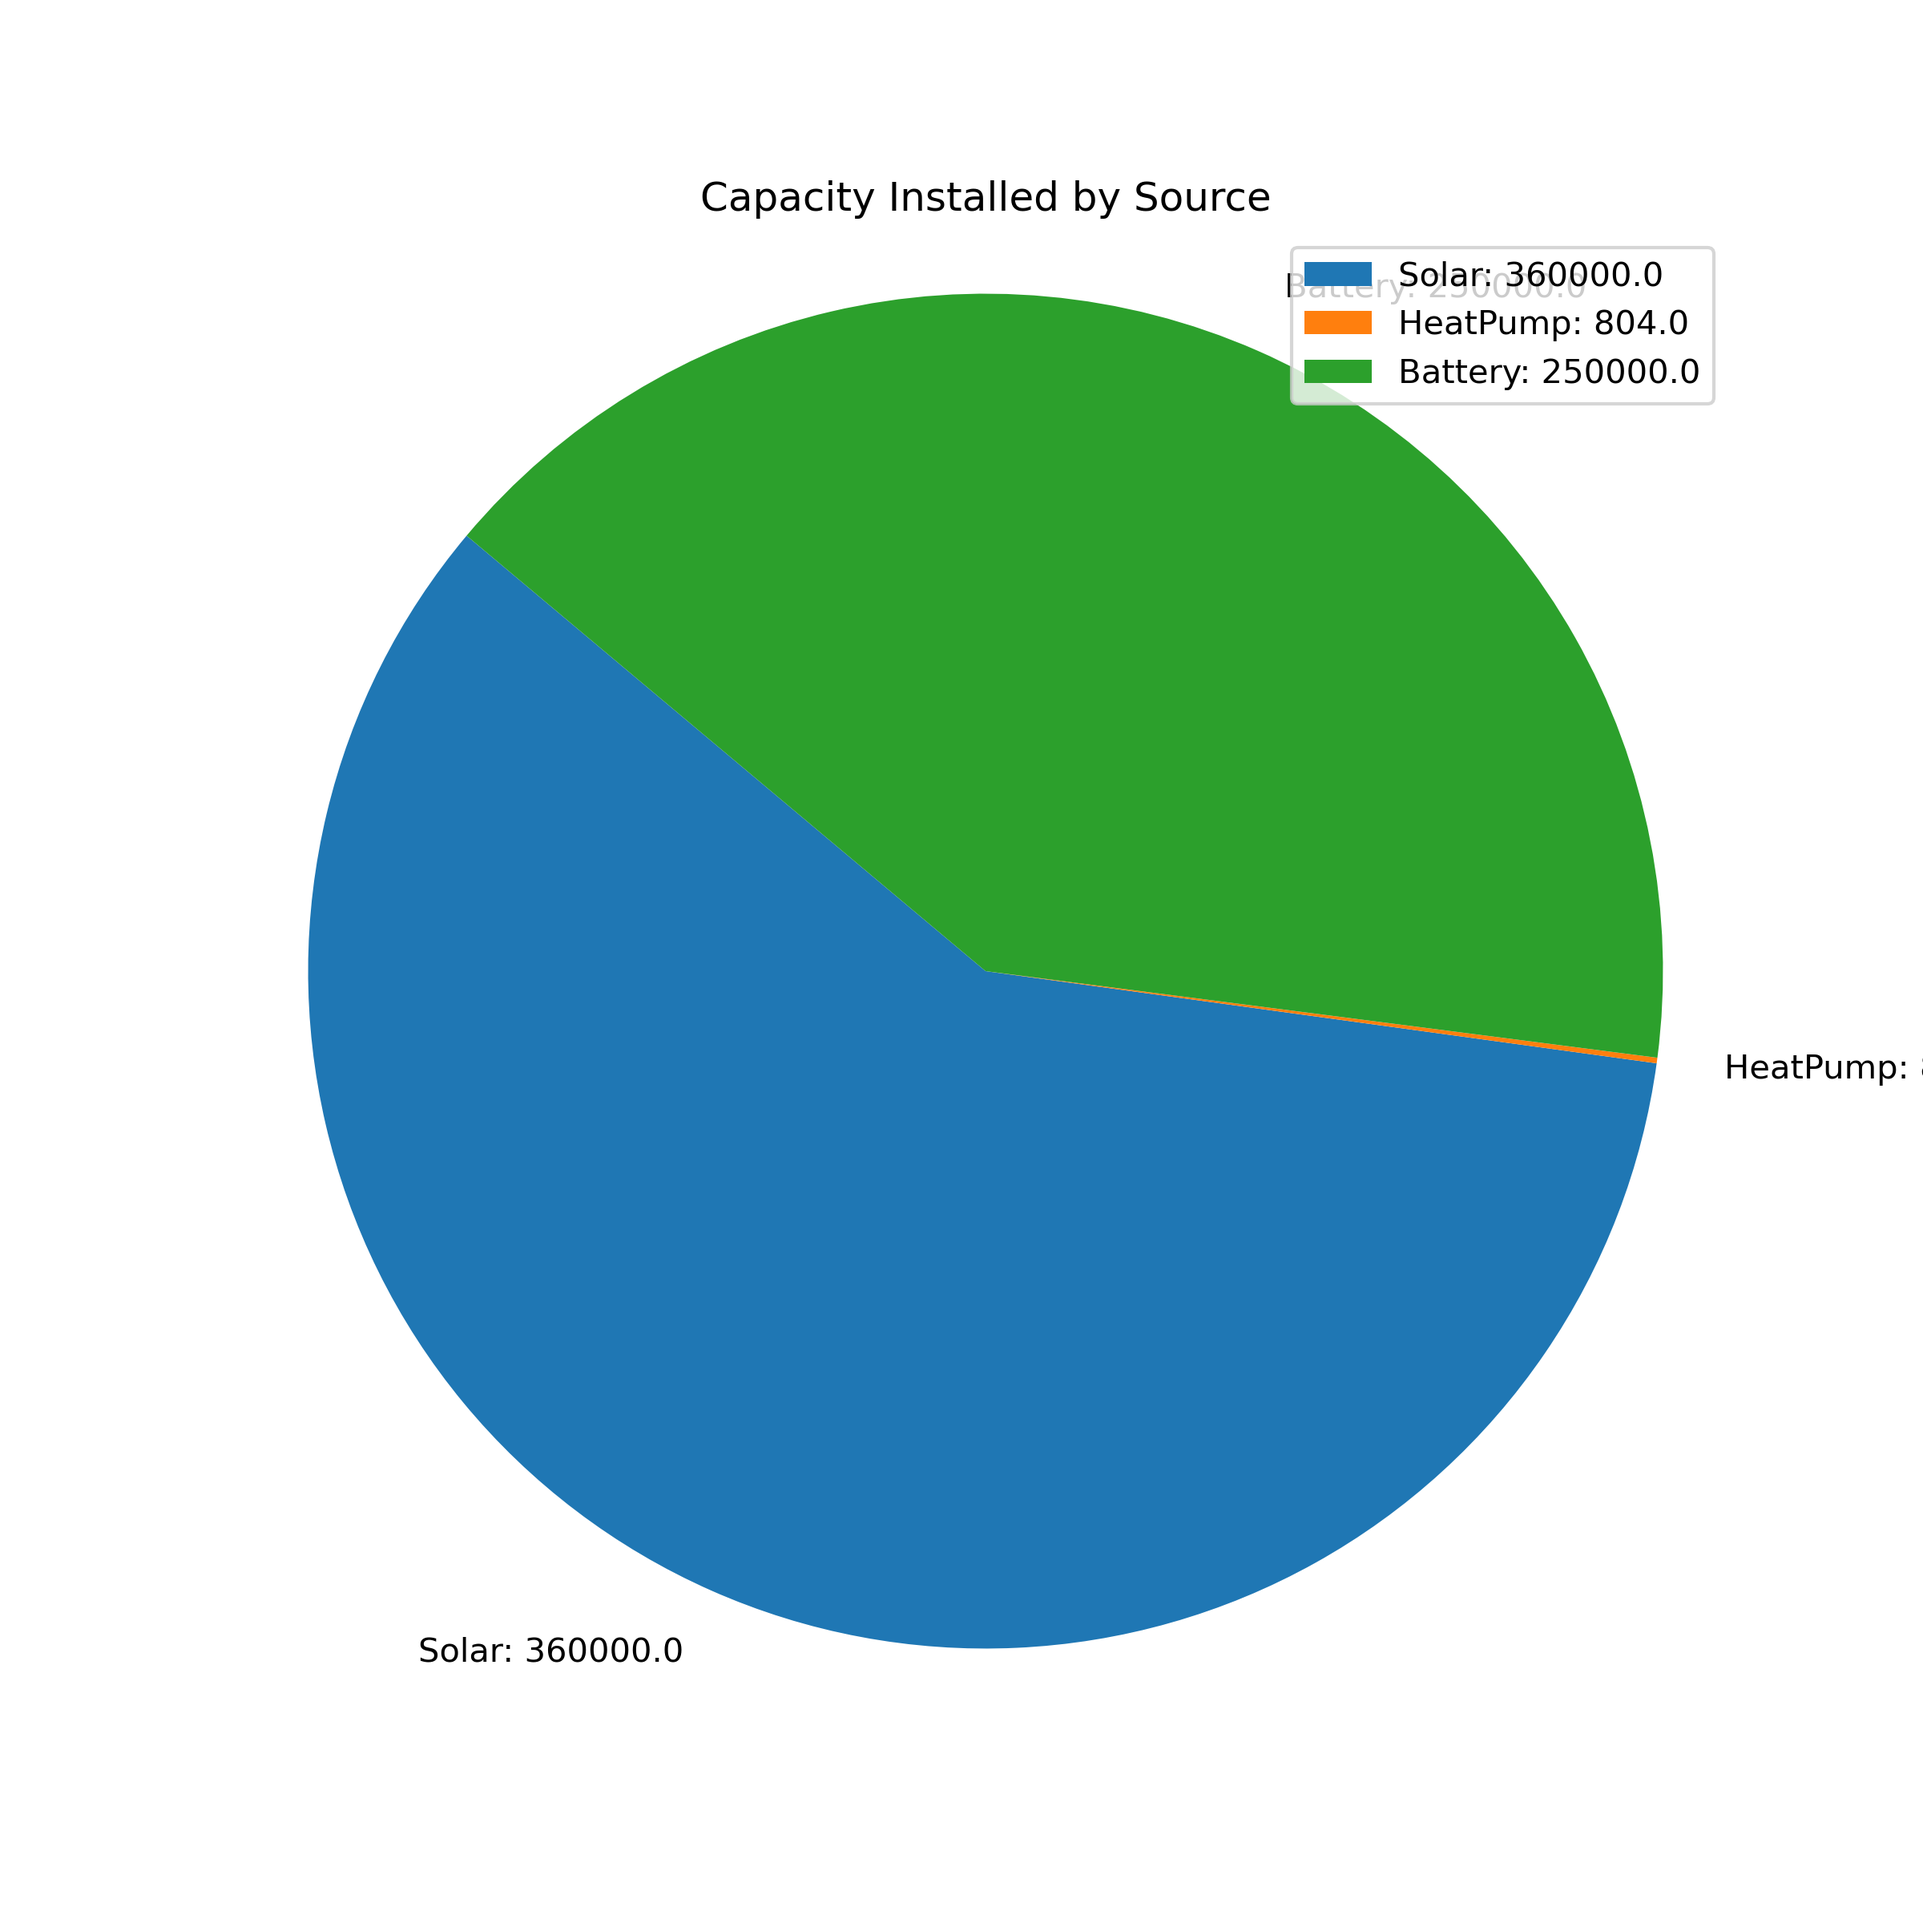
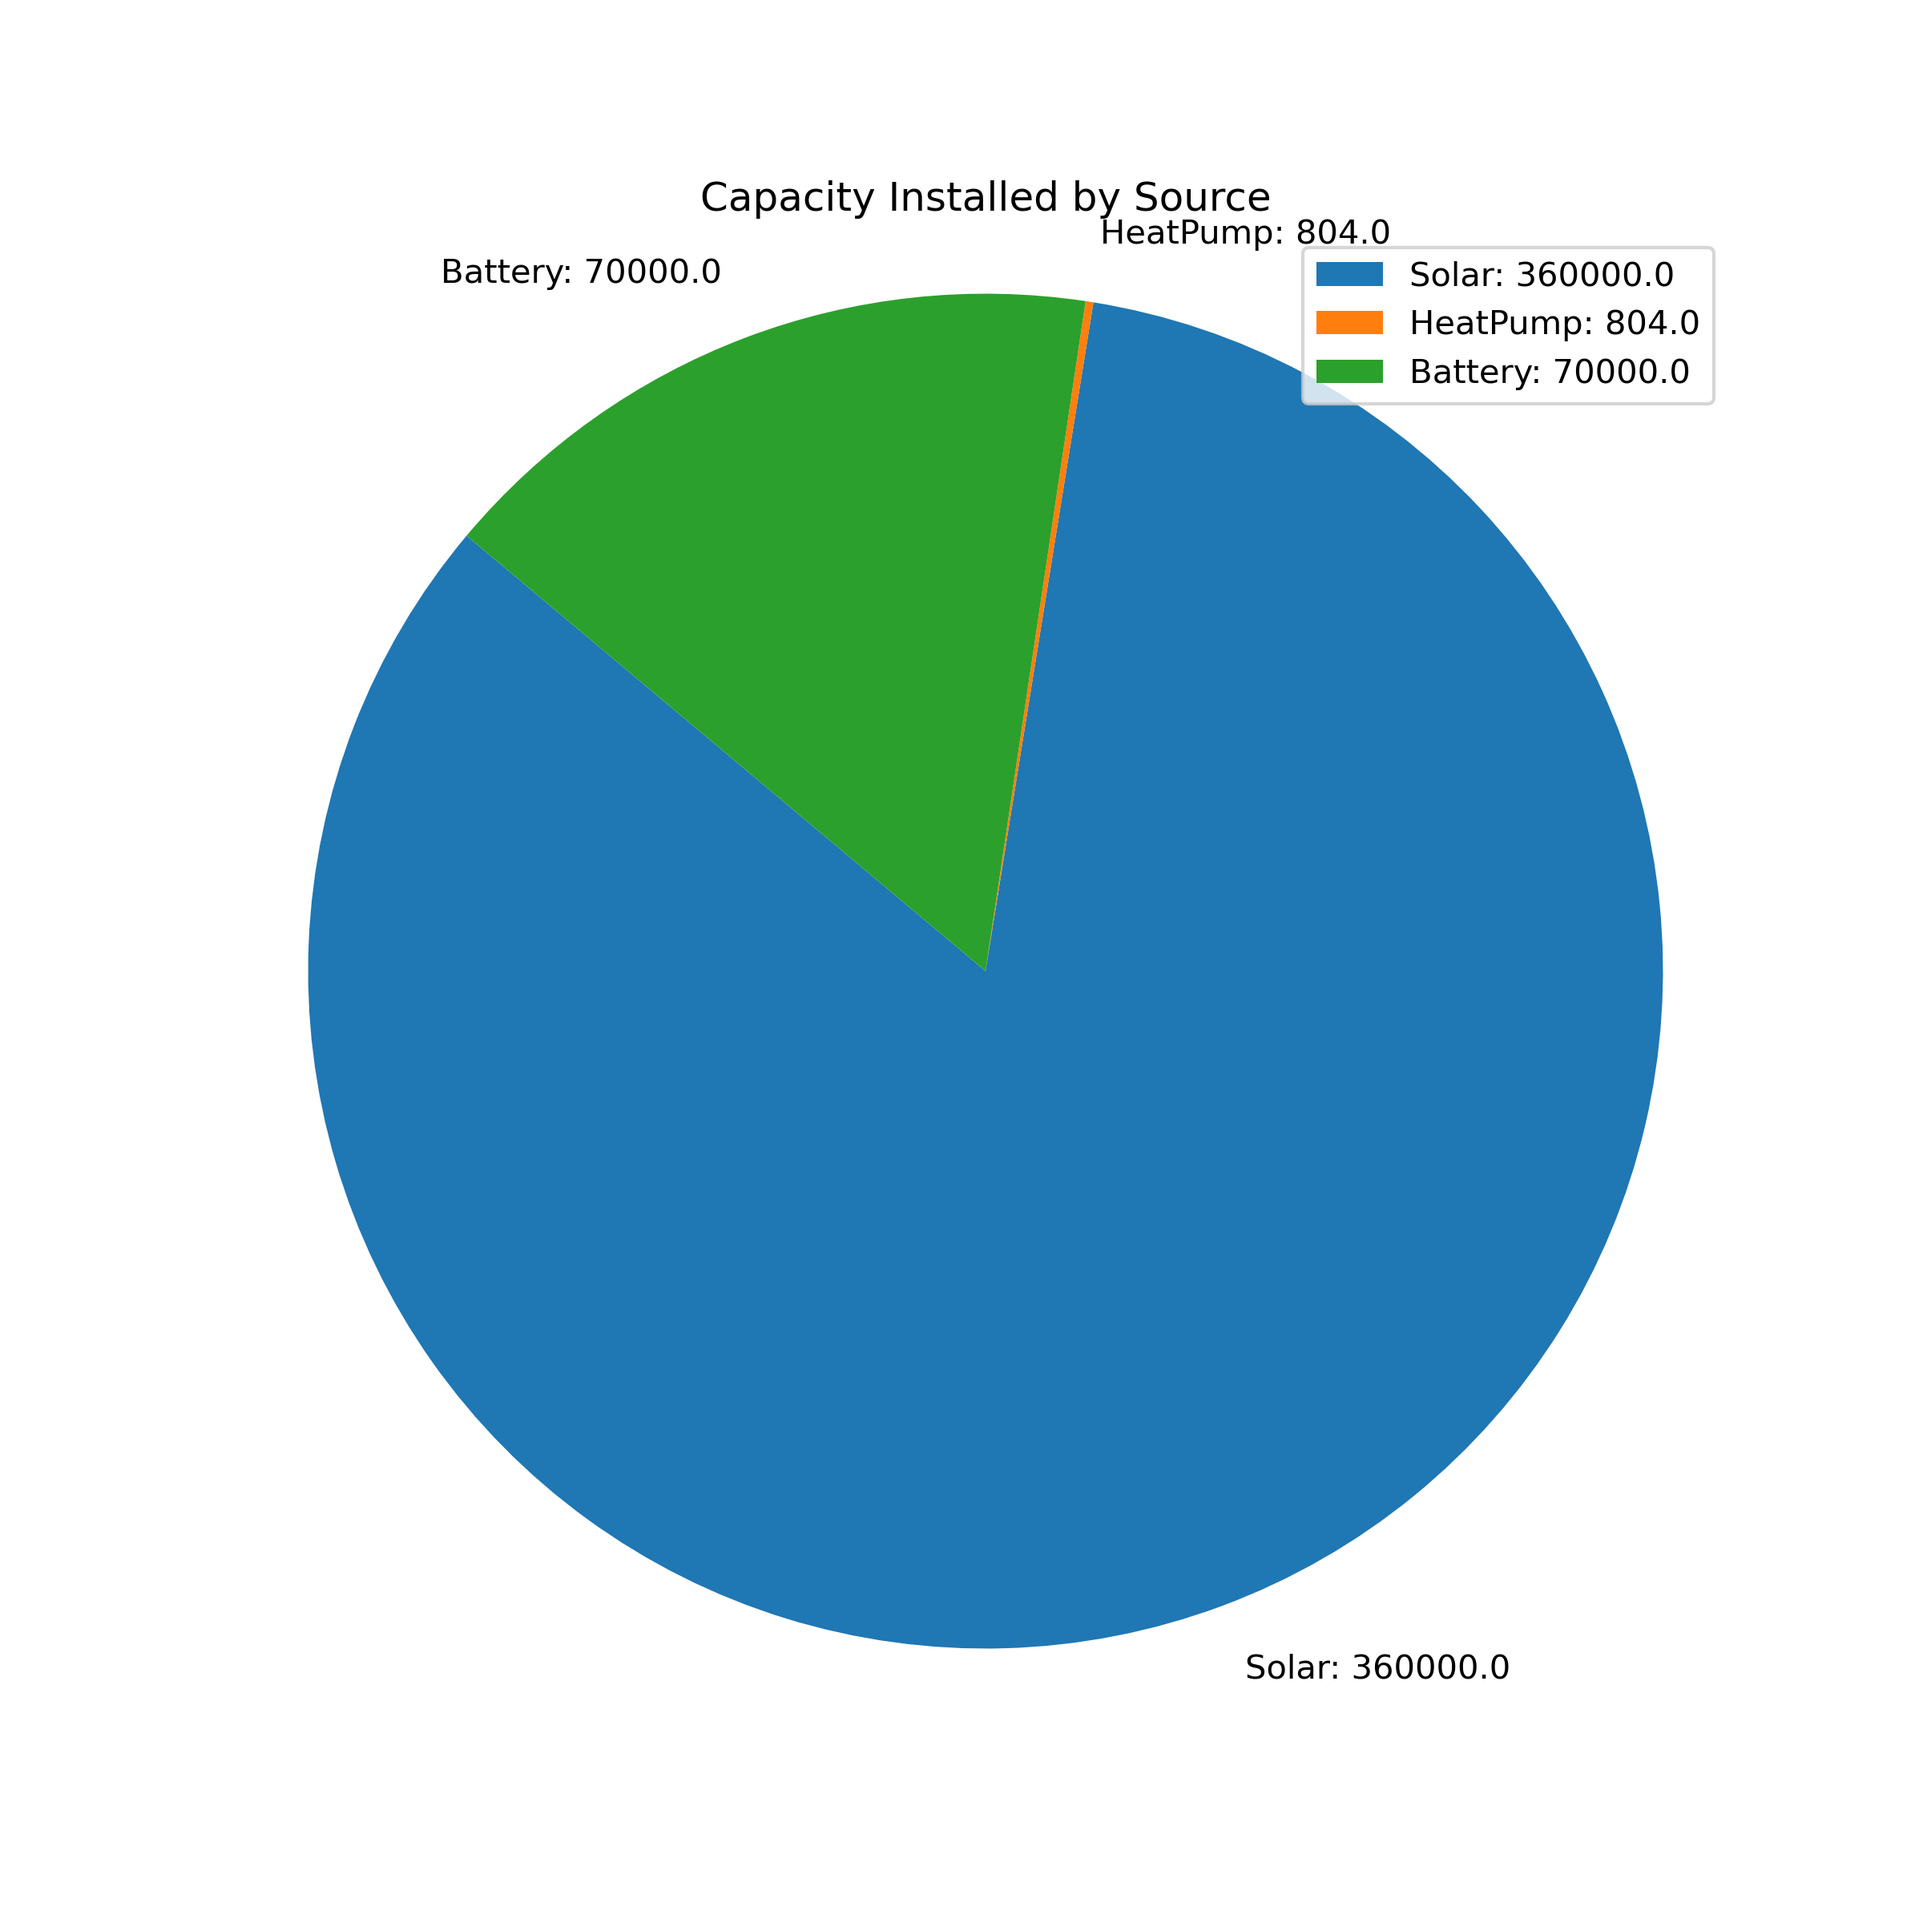
added plot

diff --git a/plots.py b/plots.py
@@ -1,15 +1,14 @@
 import matplotlib.pylab as plt
 
-energy_sources = ['Solar', 'HP']
-production_values = [985, 15]
-explode = (0, 0)
-colors = ['#1f77b4', '#ff7f0e']
+energy_sources = ['Solar', 'HP', 'Battery']
+production_values = [360000, 804, 70000]
+
 
 # Creating the pie plot
 plt.figure(figsize=(10, 10))
-plt.pie(production_values, autopct='%1.1f%%', explode=explode, startangle=40, pctdistance=0.9, colors=colors)
-plt.title('Energy production')
+plt.pie(production_values, autopct='%1.1f%%', startangle=40, pctdistance=0.9, labels=['360000 kW', '804 kW', '70000 kW'])
+plt.title('Capacity installed')
 plt.axis('equal')  # Equal aspect ratio ensures that pie is drawn as a circle.
 plt.legend(loc='upper left', labels=energy_sources)
-plt.savefig('plots/min_em_prod',dpi=300)
+plt.savefig('plots/min_em_cap2',dpi=300)
 plt.show()

diff --git a/EnergyHub.py b/EnergyHub.py
@@ -312,7 +312,7 @@ E_bat = cp.Variable(Horizon + 1)  # Stored energy in battery [kWh]
 
 # Battery constraints
 # -------------------
-bat_con_1 = [Cap_bat >= 0, Cap_bat <= 250000, Q_in_bat >= 0, Q_out_bat >= 0, E_bat >= 0, E_bat <= Cap_bat,
+bat_con_1 = [Cap_bat >= 0, Cap_bat <= 70000, Q_in_bat >= 0, Q_out_bat >= 0, E_bat >= 0, E_bat <= Cap_bat,
              Q_in_bat <= max_ch_bat * Cap_bat, Q_out_bat <= max_dis_bat * Cap_bat]
 
 # Battery constraints
